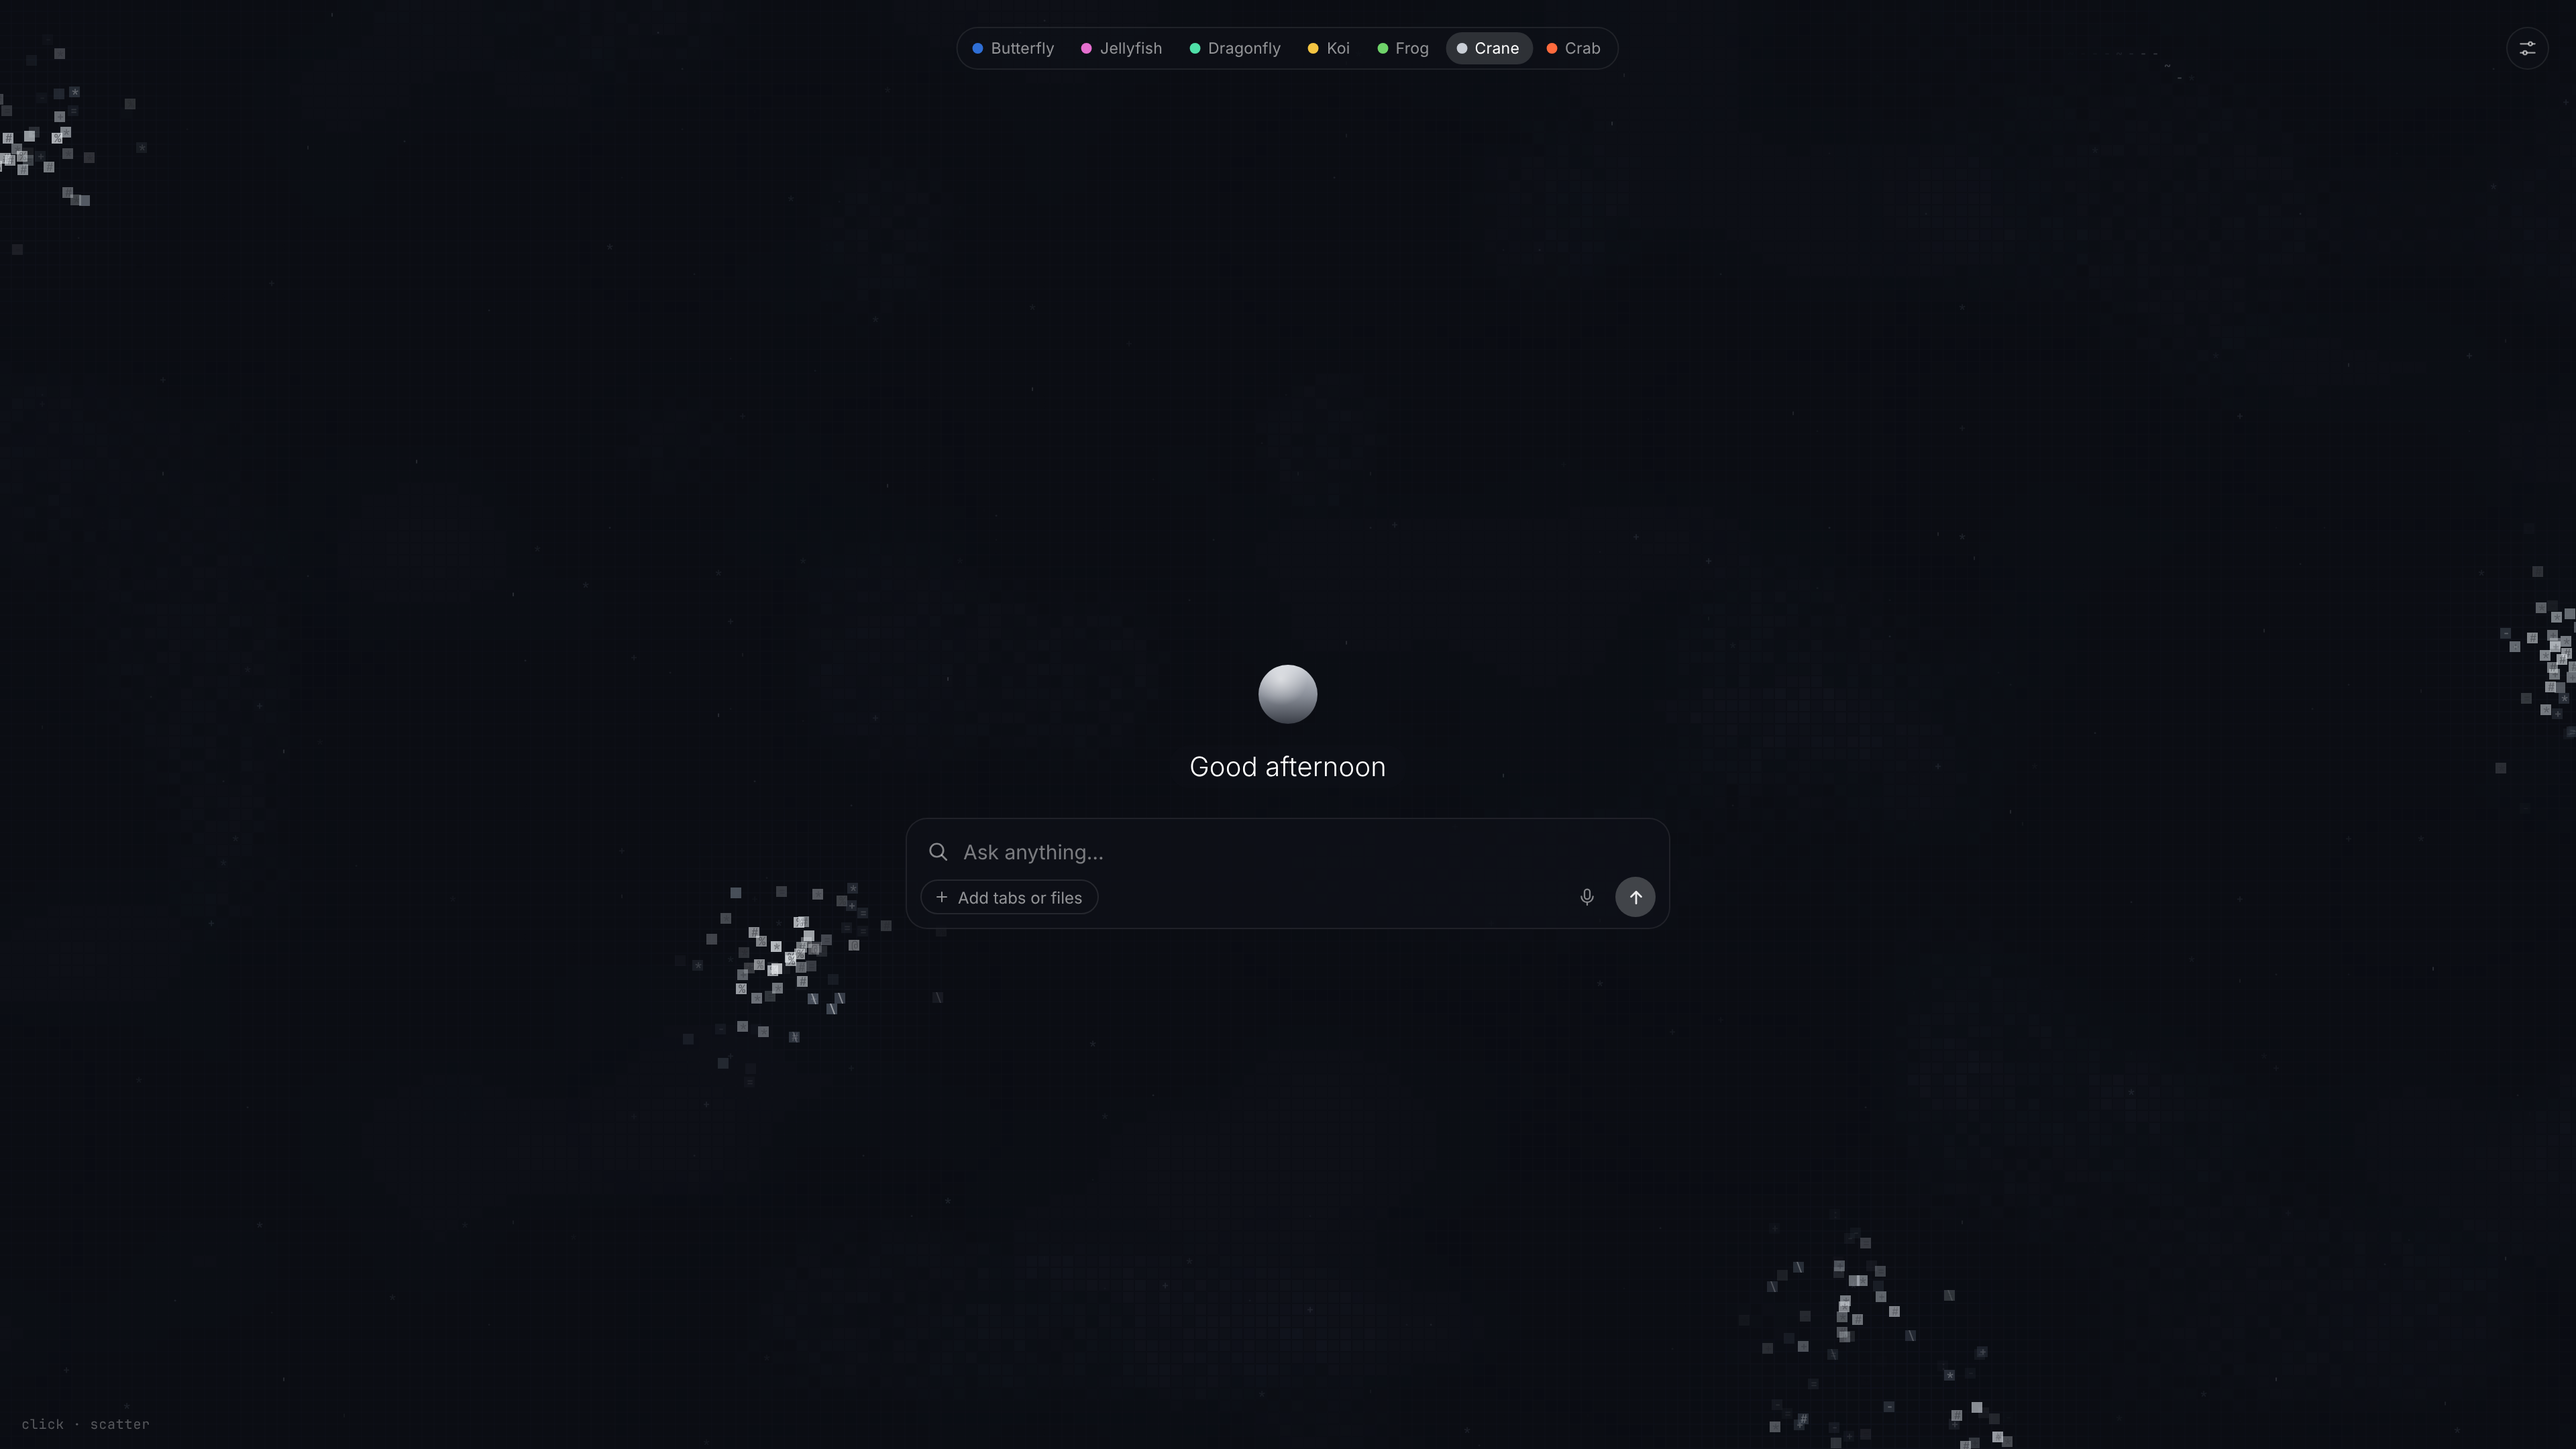
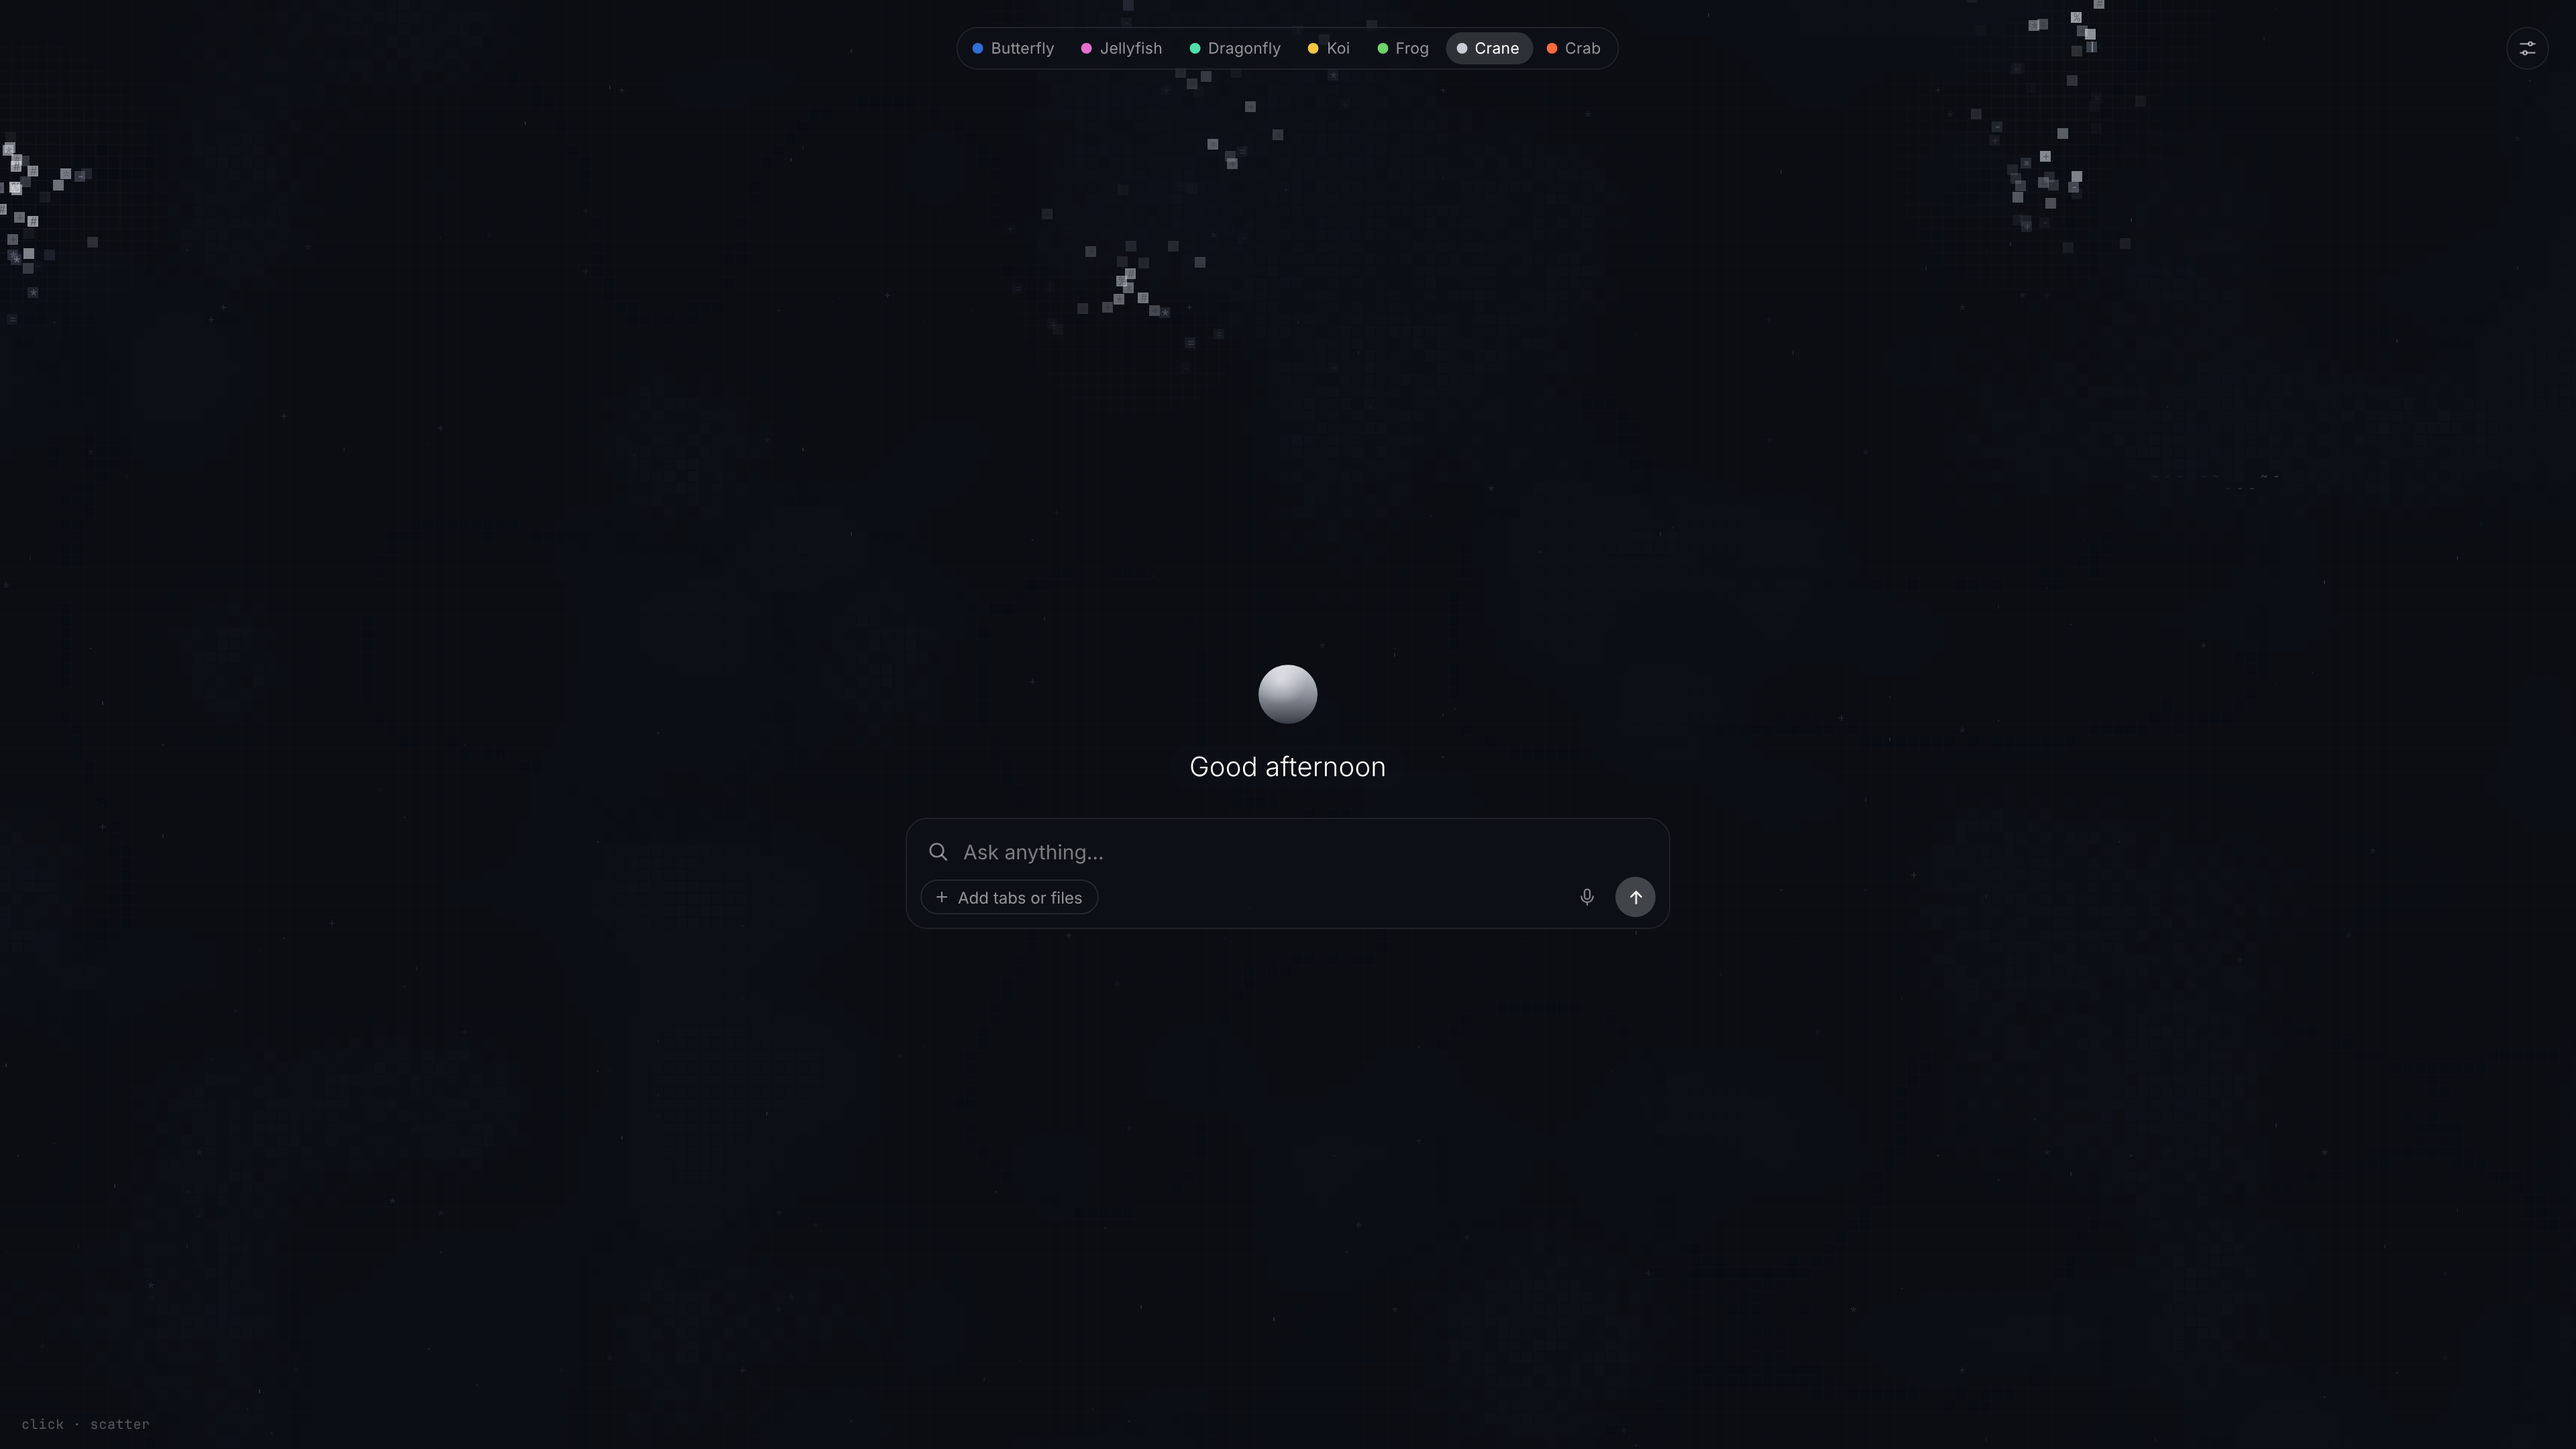
Make water glints an irregular caustic network
Claude-Session: https://claude.ai/code/session_01LDjRW39BNJbVg7PsRqh8Nu

diff --git a/js/ambient.js b/js/ambient.js
@@ -37,14 +37,14 @@
     // пруд сверху: блики, волны, круги, пузырьки
     pond: {
       medium: 'water', specks: { d: 0.010, glyphs: ".,:", a: [0.04, 0.10] },
-      field: { type: 'caustic', thr: 0.76, a: 0.055, k: 0.030 },
+      field: { type: 'caustic', thr: 0.42, a: 0.06, k: 0.030 },
       current: 5, arcs: { n: 10, len: [7, 18], speed: [6, 14] },
       bubbles: { rate: 1.3 }, rings: { every: [1.4, 3.5] }, motes: { n: 12, glyphs: ".,", a: 0.2, fall: 0 }
     },
     // пруд с листьями кувшинок
     lily: {
       medium: 'water', specks: { d: 0.014, glyphs: ".,\"o", a: [0.04, 0.10] }, pads: { n: 11, r: [2, 4.2], a: 0.06 },
-      field: { type: 'caustic', thr: 0.78, a: 0.05, k: 0.028 },
+      field: { type: 'caustic', thr: 0.46, a: 0.055, k: 0.028 },
       current: 4, arcs: { n: 5, len: [6, 14], speed: [6, 14] },
       bubbles: { rate: 0.5 }, rings: { every: [2, 5] }, motes: { n: 8, glyphs: ".,", a: 0.15, fall: 0 }
     },
@@ -58,7 +58,7 @@
     // берег: песок, камешки, длинные волны прибоя
     shore: {
       medium: 'water', specks: { d: 0.035, glyphs: ".,:;.", a: [0.05, 0.13] }, pads: { n: 14, r: [0.9, 1.8], a: 0.05 },
-      field: { type: 'caustic', thr: 0.78, a: 0.05, k: 0.022 },
+      field: { type: 'caustic', thr: 0.46, a: 0.055, k: 0.022 },
       current: 4, arcs: { n: 6, len: [16, 34], speed: [10, 20], same: true },
       bubbles: { rate: 0.4 }, motes: { n: 6, glyphs: ".", a: 0.14, fall: 0 }
     }
@@ -327,13 +327,13 @@
           var X = i * cell - Math.cos(dirBase) * drift, Y = j * cell;
           v = 0.62 * U.noise2(X * f.k, Y * f.k * 1.7, seed) + 0.38 * U.noise2(X * f.k * 2.6, Y * f.k * 3.6, seed + 8);
         } else if (f.type === 'caustic') {
-          // блики на воде: три волны под разными углами складываются в подвижную сетку пятен
-          var wx = i + 2.2 * U.noise2(i * 0.11, j * 0.11 + t * 0.04, seed + 12);
-          var wy = j + 2.2 * U.noise2(i * 0.11 + 40, j * 0.11 - t * 0.04, seed + 14);
-          var kk = k * 2.2, ph = bandPhase * 2.2;
-          v = (Math.sin(wx * kk + ph) + Math.sin((wx * 0.5 + wy * 0.866) * kk - ph * 0.8) +
-            Math.sin((wx * 0.5 - wy * 0.866) * kk + ph * 0.6)) / 3;
-          v = 0.5 + 0.5 * v;
+          // блики на воде: тонкая неровная сеть там, где два медленно плывущих шума
+          // проходят через середину — она течёт и перестраивается
+          var kc = f.k * 3;
+          var n = 0.5 * (U.noise2(i * kc + t * 0.06, j * kc, seed + 12) +
+            U.noise2(i * kc - t * 0.045 + 31, j * kc + t * 0.035 + 17, seed + 14));
+          v = 1 - Math.abs(2 * n - 1) * 4;
+          if (v > 0) v *= 0.35 + 0.65 * U.noise2(i * 0.04 + t * 0.012, j * 0.04, seed + 13);
         } else {
           // полосы идут по ветру (течению), шум ломает их в отдельные гребни
           var warp = U.noise2(i * 0.07, j * 0.07 + t * 0.03, seed + 12);
